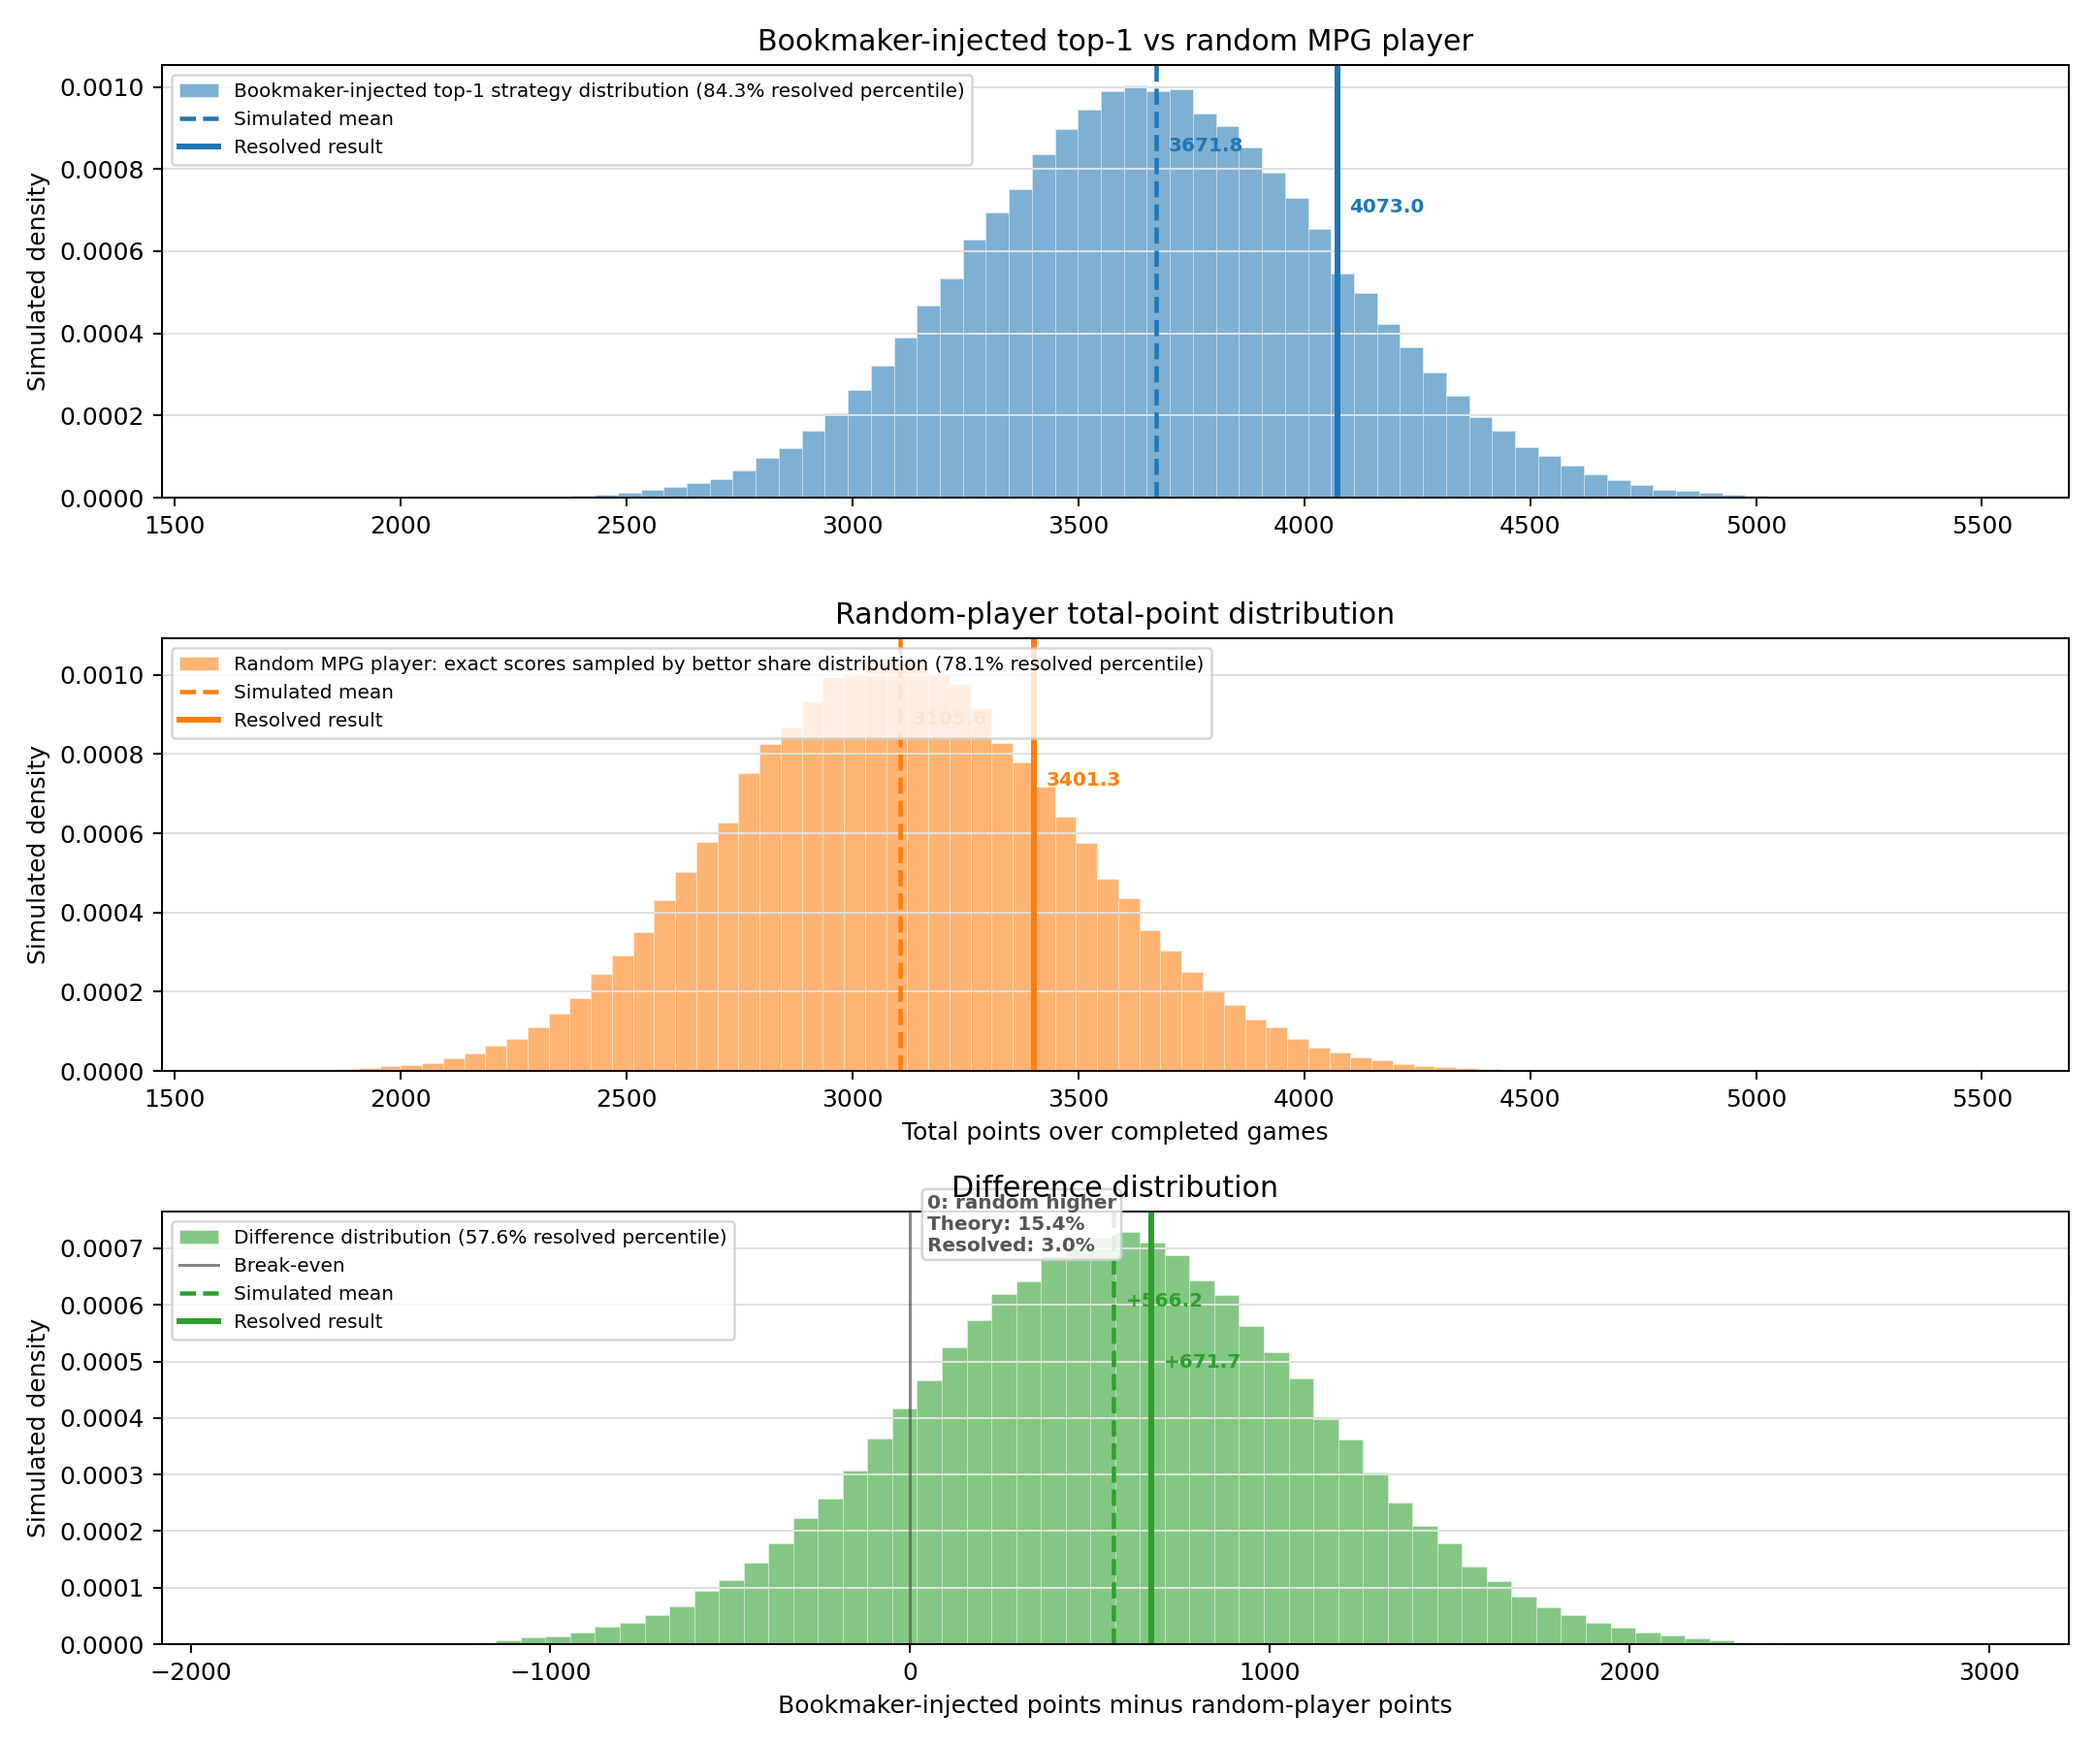
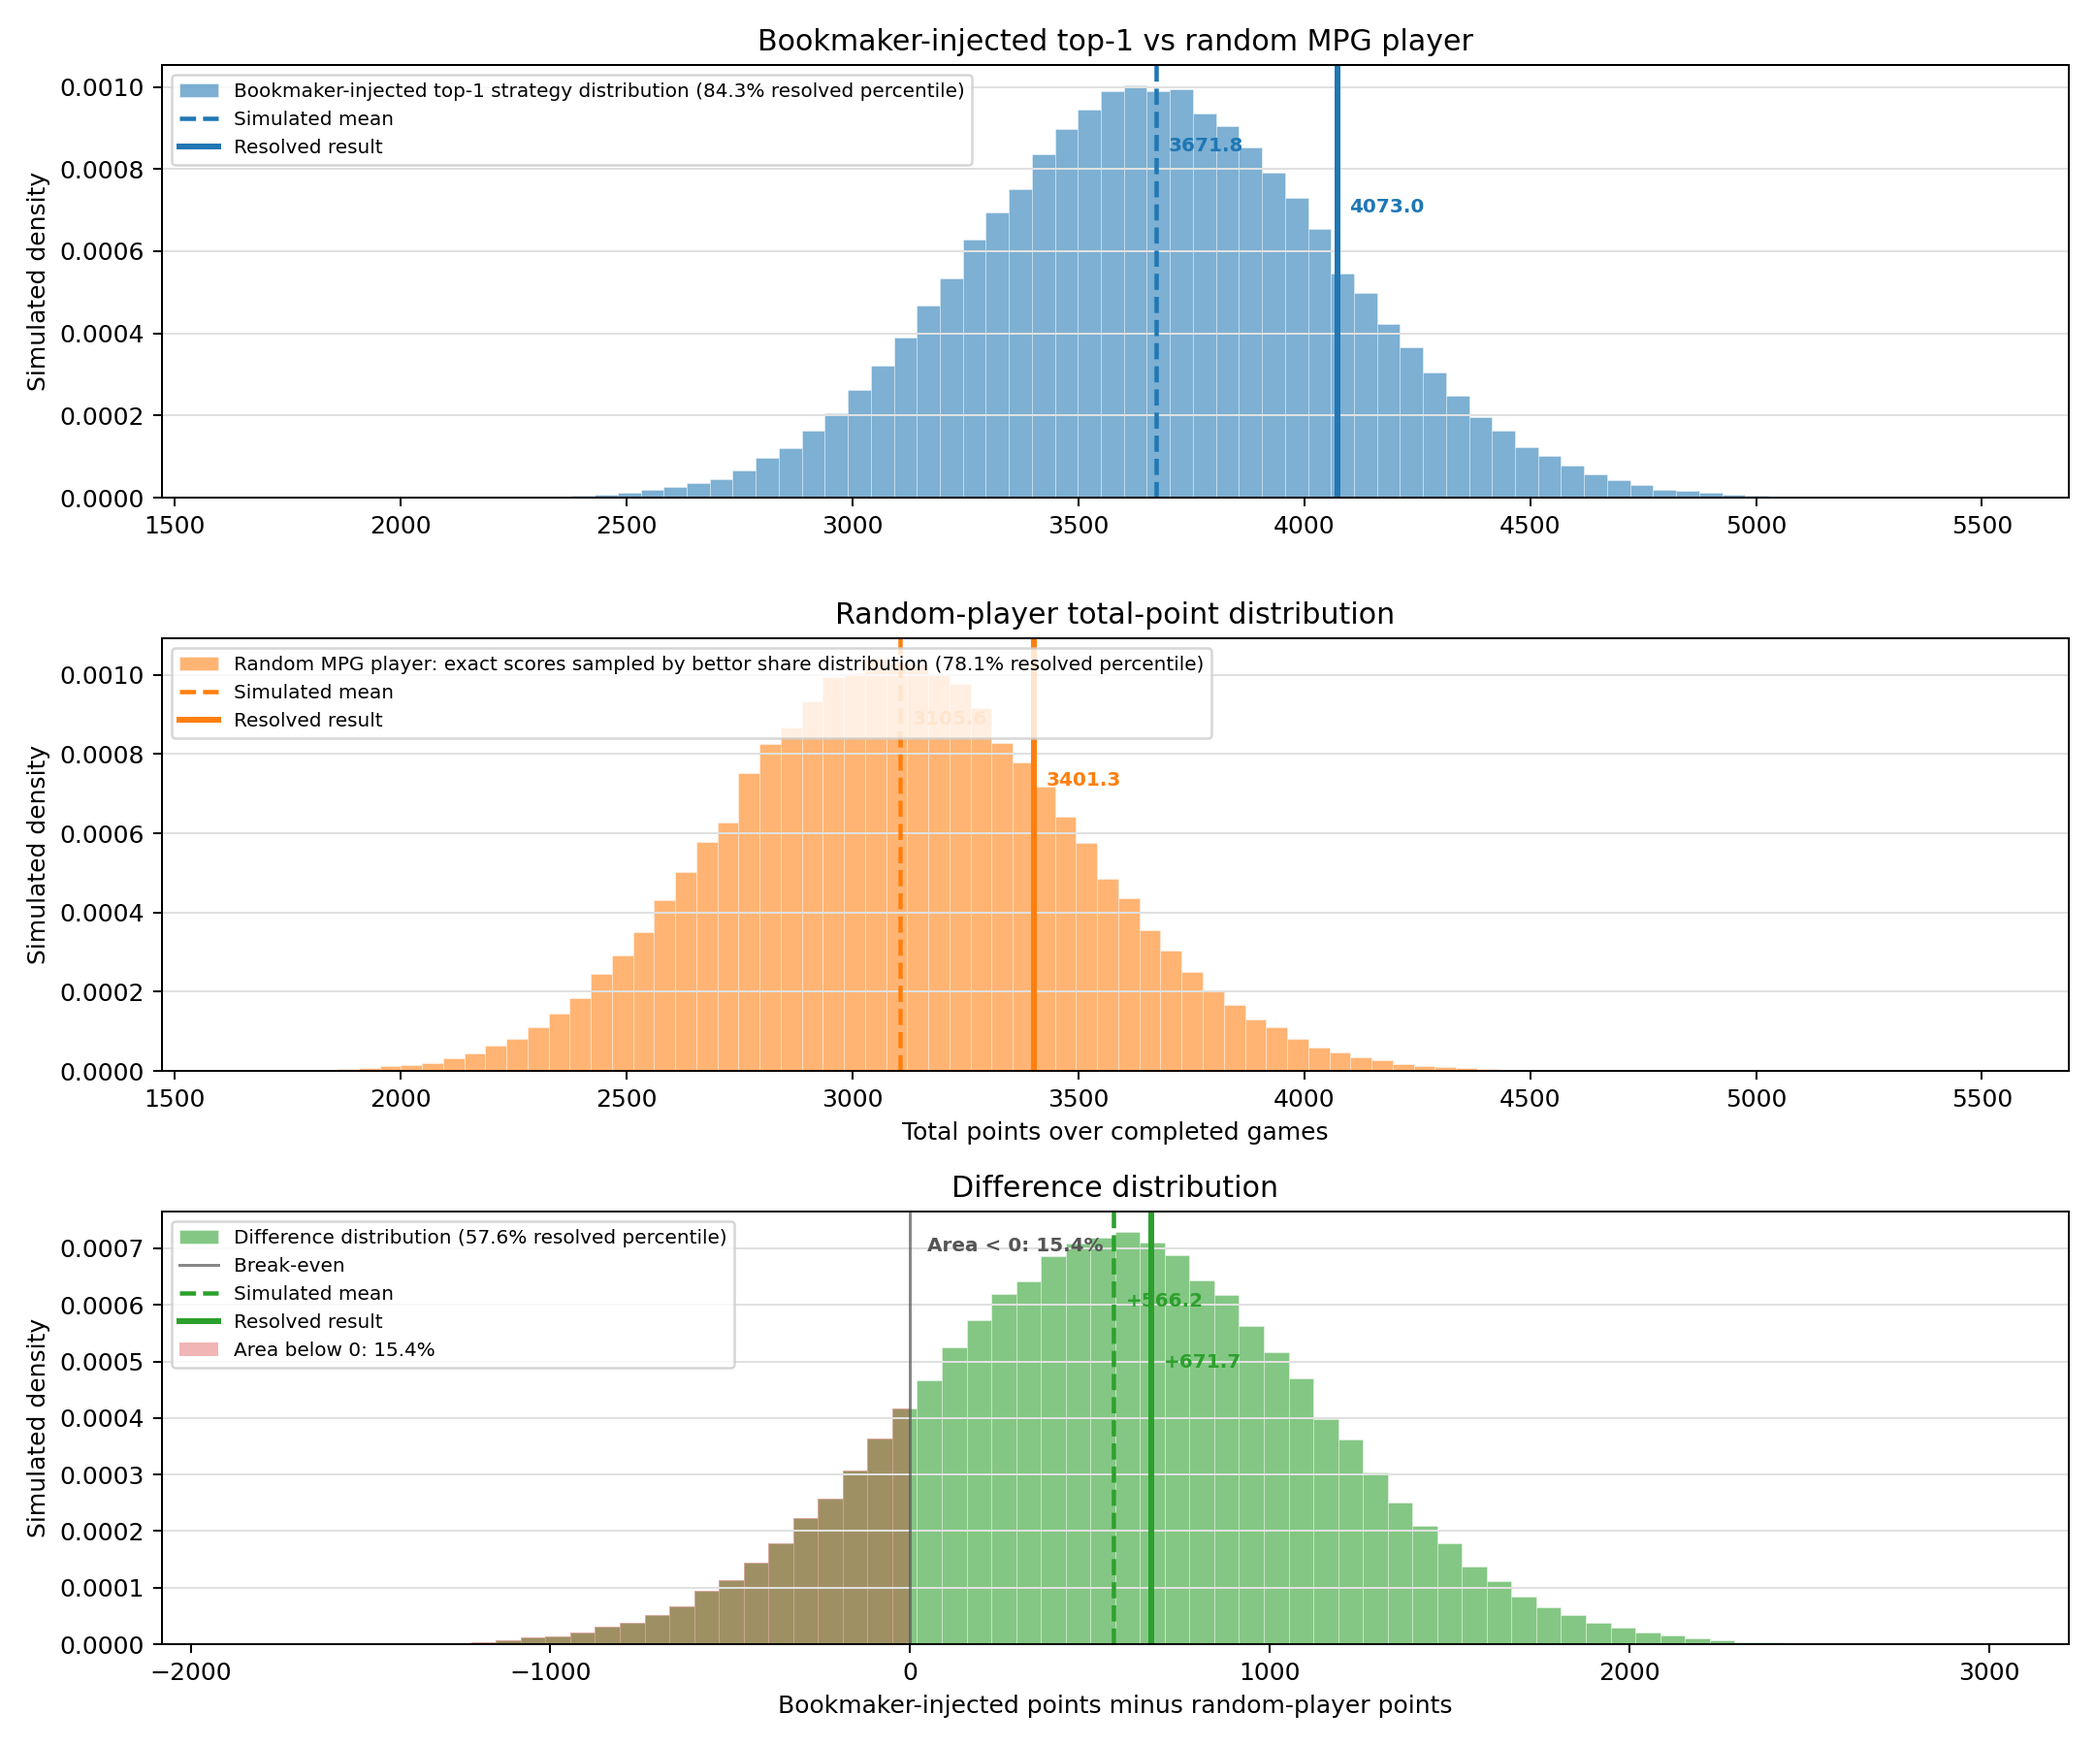
latest

Changed region(s): [[0.2481, 0.8089, 0.4343, 0.9644], [0.4343, 0.6844, 0.5583, 0.7467], [0.0931, 0.7467, 0.2171, 0.7778]]

diff --git a/data/analysis/strategy_simulations/analyze_bookmaker_injected_results.py b/data/analysis/strategy_simulations/analyze_bookmaker_injected_results.py
@@ -837,12 +837,7 @@ def write_comparison_plot(
     difference_mean = float(np.mean(difference_totals))
     difference_percentile = float(np.mean(difference_totals <= difference_realized))
     random_more_theory_share = float(np.mean(difference_totals < 0))
-    random_more_resolved_share = (
-        float(np.mean(random_resolved_totals > bookmaker_realized))
-        if random_resolved_totals is not None
-        else None
-    )
-    difference_ax.hist(
+    density, bin_edges, _ = difference_ax.hist(
         difference_totals,
         bins=70,
         density=True,
@@ -853,6 +848,28 @@ def write_comparison_plot(
         label=f"Difference distribution ({difference_percentile:.1%} resolved percentile)",
     )
     difference_y_top = difference_ax.get_ylim()[1]
+    negative_label_added = False
+    for left, right, height in zip(bin_edges[:-1], bin_edges[1:], density):
+        if left >= 0:
+            continue
+        shade_right = min(right, 0)
+        if shade_right <= left:
+            continue
+        difference_ax.bar(
+            left,
+            height,
+            width=shade_right - left,
+            align="edge",
+            color="#d62728",
+            alpha=0.34,
+            edgecolor="none",
+            label=(
+                f"Area below 0: {random_more_theory_share:.1%}"
+                if not negative_label_added
+                else None
+            ),
+        )
+        negative_label_added = True
     difference_ax.axvline(
         0,
         color="#555555",
@@ -874,27 +891,13 @@ def write_comparison_plot(
         label="Resolved result",
     )
     difference_ax.annotate(
-        (
-            "0: random higher\n"
-            f"Theory: {random_more_theory_share:.1%}"
-            + (
-                f"\nResolved: {random_more_resolved_share:.1%}"
-                if random_more_resolved_share is not None
-                else ""
-            )
-        ),
+        f"Area < 0: {random_more_theory_share:.1%}",
         xy=(0, difference_y_top * 0.92),
         xytext=(7, -2),
         textcoords="offset points",
         color="#555555",
         fontsize=8,
         fontweight="bold",
-        bbox={
-            "boxstyle": "round,pad=0.25",
-            "facecolor": "white",
-            "edgecolor": "#cccccc",
-            "alpha": 0.85,
-        },
     )
     difference_ax.annotate(
         f"{difference_mean:+.1f}",
